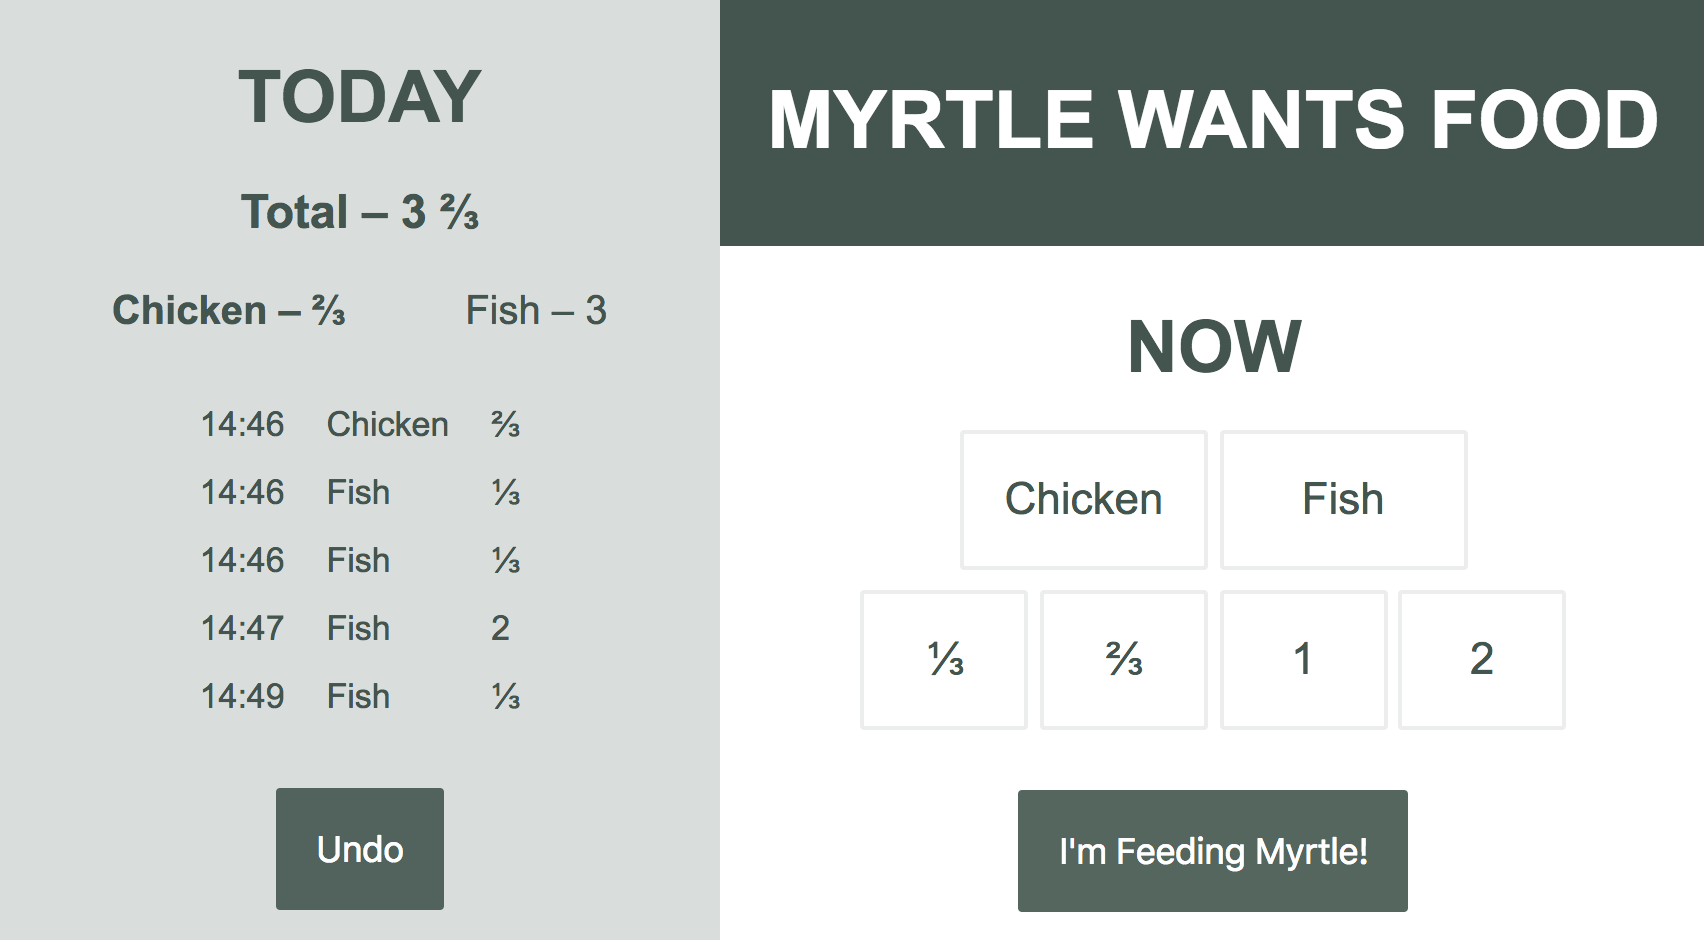
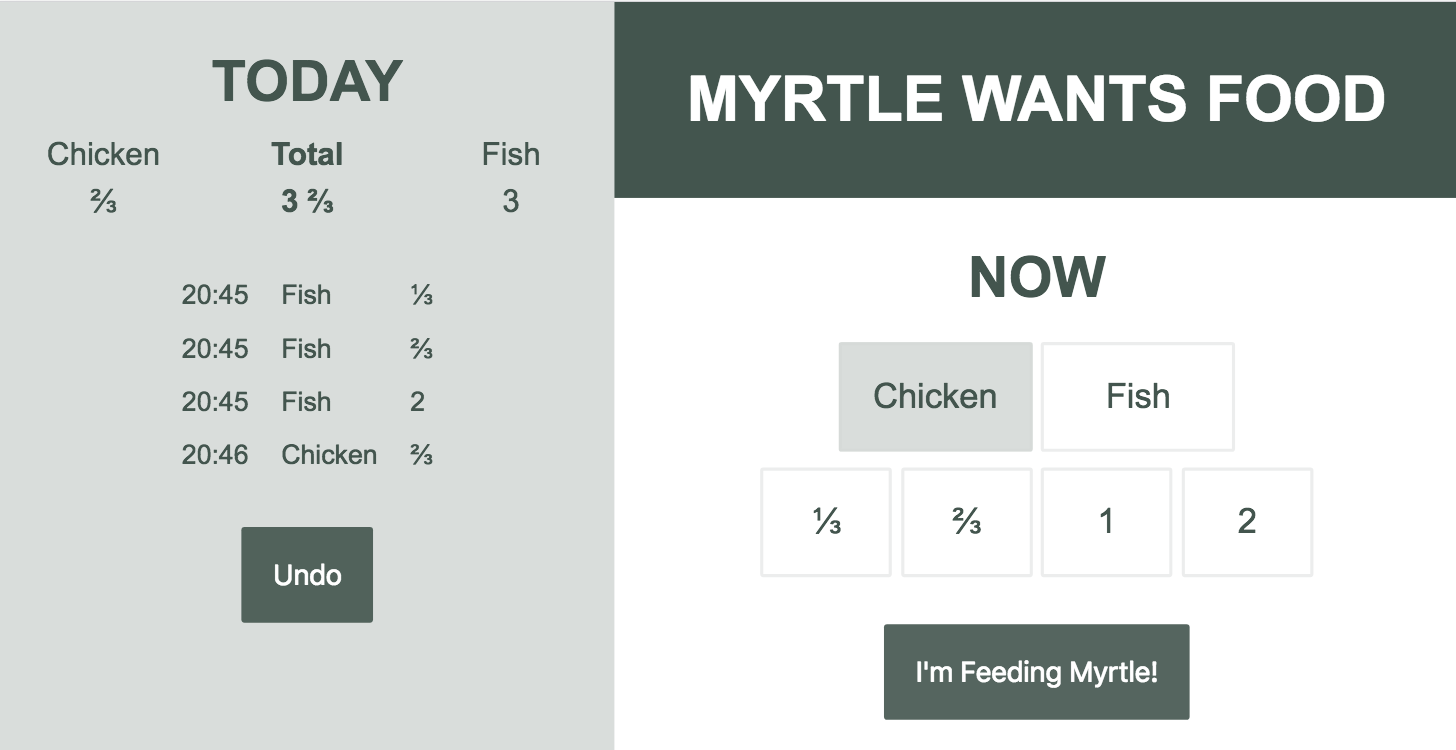
Decide and pre-select the next flavour; prevent deleting hidden records; make prettier

diff --git a/templates/main.html b/templates/main.html
@@ -5,10 +5,19 @@
             <div class="today">
                 <h2>Today</h2>
                 <div class="today--flavour-breakdown">
-                    <h3>Total – {{ today['total'] | safe }}</h3>
                     <div class="columns">
-                        <p class="{{ 'bold' if today['chicken'] < today['fish']}}">Chicken – {{ today['chicken'] | safe }}</p>
-                        <p class="{{ 'bold' if today['fish'] < today['chicken']}}">Fish – {{ today['fish'] | safe }}</p>
+                        <div>
+                            <p>Chicken</p>
+                            <p>{{ today['chicken'] | safe }}</p>
+                        </div>
+                        <div>
+                            <p class="bold">Total</p>
+                            <p class="bold">{{ today['total'] | safe }}</p>
+                        </div>
+                        <div>
+                            <p>Fish</p>
+                            <p>{{ today['fish'] | safe }}</p>
+                        </div>
                     </div>
                 </div>
                 <div class="today--portions">
@@ -29,7 +38,7 @@
                     </div>
                 </div>
                 <form action="/undo" method="post">
-                    <button>Undo</button>
+                    <button {{"disabled" if today['total'] == '0'}}>Undo</button>
                 </form>
             </div>
             <div class="now">
@@ -37,8 +46,8 @@
                 <h2>Now</h2>
                 <form action="/food-portions" method="post">
                     <div class="now--flavour">
-                        <input type="radio" name="flavour" value="Chicken" id="flavour-chicken" /><label for="flavour-chicken">Chicken</label>
-                        <input type="radio" name="flavour" value="Fish" id="flavour-fish" /><label for="flavour-fish">Fish</label>
+                        <input type="radio" name="flavour" value="Chicken" id="flavour-chicken" {{'checked' if next_flavour == 'Chicken'}}/><label for="flavour-chicken">Chicken</label>
+                        <input type="radio" name="flavour" value="Fish" id="flavour-fish" {{'checked' if next_flavour == 'Fish'}}/><label for="flavour-fish">Fish</label>
                     </div>
                     <div class="now--quantity">
                         <input type="radio" name="quantity" value="1" id="quantity-1" /><label for="quantity-1">&frac13;</label>

diff --git a/static/style.css b/static/style.css
@@ -31,6 +31,10 @@ h2 {
     display: flex;
 }
 
+.bold {
+    font-weight: bold;
+}
+
 .today {
     display: -webkit-flex;
     display: flex;
@@ -41,23 +45,21 @@ h2 {
     background-color: rgba(67, 86, 78, 0.2);
 }
 
-.bold {
-    font-weight: bold;
-}
-
 .today--flavour-breakdown {
     width: 100%;
     text-align: center;
-    padding-bottom: 1rem;
+    width: 18rem;
+    padding-bottom: 0.5rem;
 }
 
 .today--flavour-breakdown .columns { 
-    justify-content: center;
-    -webkit-justify-content: center;
+    justify-content: space-between;
+    -webkit-justify-content: space-between;
+    line-height: 0.5rem;
 }
 
-.today--flavour-breakdown .columns p {
-    margin: 0 1.5rem;
+.today--flavour-breakdown .columns p { 
+    width: 5rem;
 }
 
 .today--portions {
@@ -127,6 +129,8 @@ button {
     background-color: rgba(67, 86, 78, 0.9);
 }
 button:active {
-    outline: none;
     background-color: rgba(67, 86, 78, 1);
+}
+button:disabled {
+    opacity: 0.3;
 }

diff --git a/myrtles_feeding_station.py b/myrtles_feeding_station.py
@@ -28,7 +28,7 @@ def get_scoop_display(quantity):
     if remainder == 0:
         return displayed_whole
     
-    return str(whole) + displayed_remainder
+    return displayed_whole + displayed_remainder
     
 # Get previous 3am
 def get_day_start():
@@ -43,6 +43,7 @@ def get_day_start():
 def index():
     portions = []
     today = { 'chicken': 0, 'fish': 0, 'total': 0 }
+    next_flavour = 'Fish'
         
     con = None
     try: 
@@ -56,7 +57,6 @@ def index():
         rows = cur.fetchall()
 
         # Form the data that will passed to the JS and HTML
-        portions = []
         for row in rows:
         
             # Compile today's food
@@ -74,10 +74,34 @@ def index():
             # Sum quantities and breakdown by flavour
             today['total'] += row[1]
             if row[2] == 'Fish':
-                 today['fish'] += row[1]
+                today['fish'] += row[1]
             elif row[2] == 'Chicken':
-                 today['chicken'] += row[1]
+                today['chicken'] += row[1]
         
+        # Decide which flavour should be next
+        if today['total'] == 0:
+    
+            # First scoop of the day so choose whichever flavour wasn't last fed
+            query = "SELECT flavour FROM myrtle ORDER BY time DESC LIMIT 1"
+            cur.execute(query)
+            previous = cur.fetchone()
+            
+            if previous is not None and previous[0] == 'Fish':
+                next_flavour = 'Chicken'
+            else:
+                next_flavour = 'Fish'
+        else:
+            # Alternate every 2 scoops
+            first_flavour = rows[0][2]
+            second_flavour = 'Fish' if first_flavour == 'Chicken' else 'Chicken'
+            
+            # Quantities are in 1/3-scoop units; alternate every 6 units
+            if today['total'] % 12 < 6:
+                next_flavour = first_flavour
+            else:
+                next_flavour = second_flavour
+                
+        # Display quantities as scoop fractions
         today_display = { 'chicken': get_scoop_display(today['chicken']), 'fish': get_scoop_display(today['fish']), 'total': get_scoop_display(today['total']) }
 
     except sqlite3.Error, e:
@@ -88,7 +112,7 @@ def index():
         if con:
             con.close()
     
-    return render_template('main.html', portions=portions, today=today_display, limit_reached = today['total']/3 >= 6)
+    return render_template('main.html', portions=portions, today=today_display, limit_reached = today['total']/3 >= 6, next_flavour=next_flavour)
     
 
 @application.route('/food-portions', methods=['POST'])
@@ -129,7 +153,7 @@ def undo():
         cur = con.cursor()
         
         # Remove last DB entry
-        query = 'DELETE FROM myrtle ORDER BY time DESC LIMIT 1'
+        query = "DELETE FROM myrtle WHERE time > datetime('" + get_day_start() + "')" ORDER BY time DESC LIMIT 1"
         cur.execute(query)
         con.commit()
         
